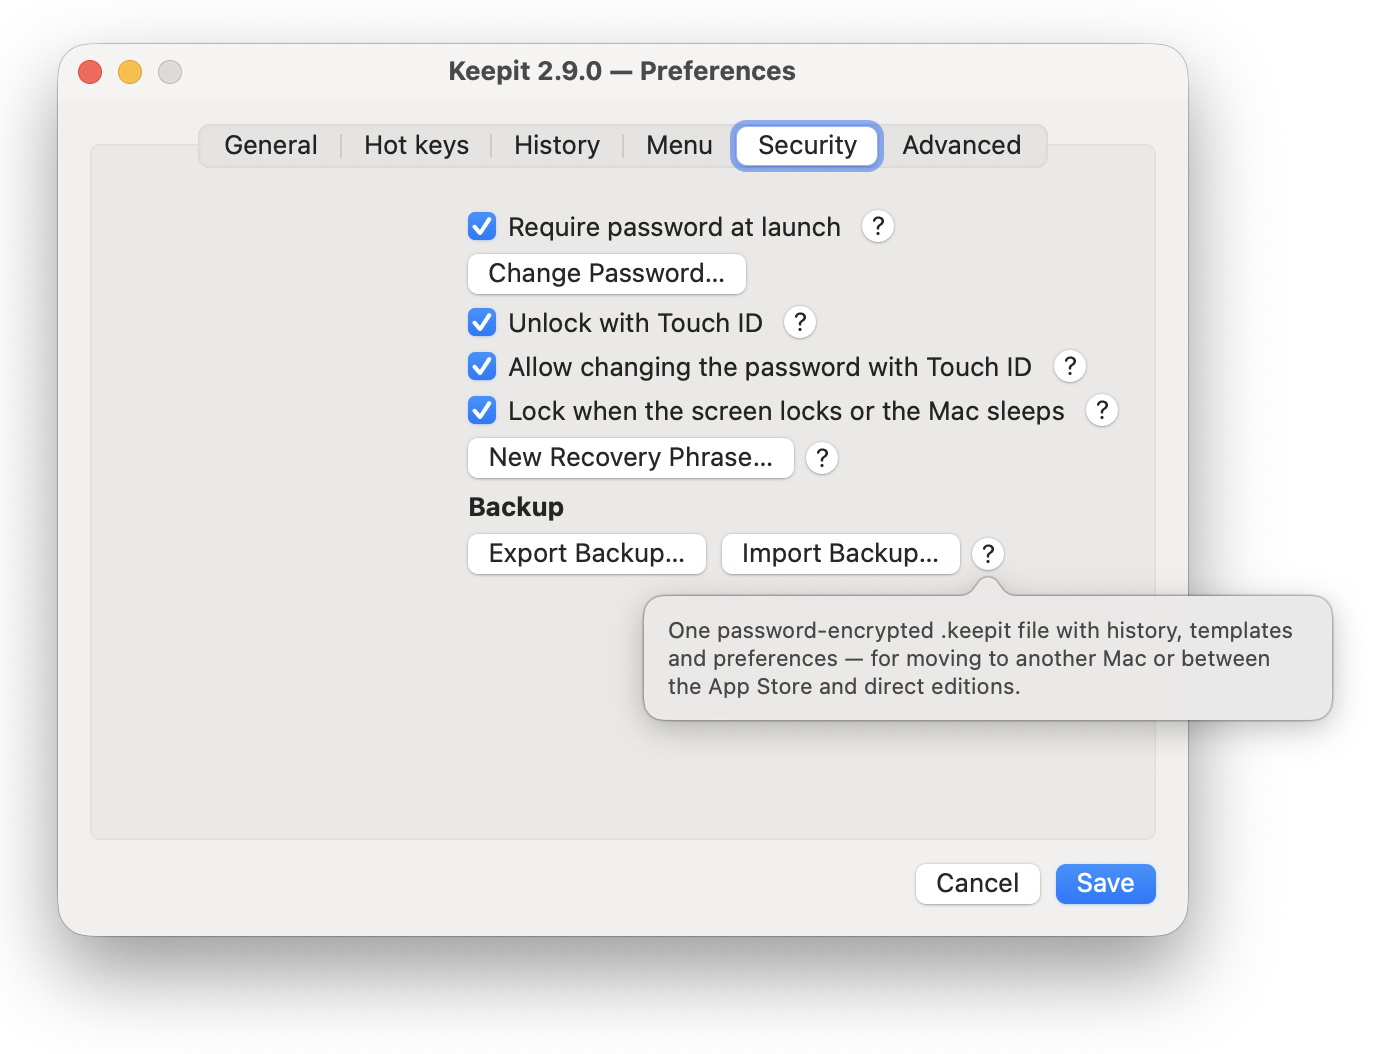
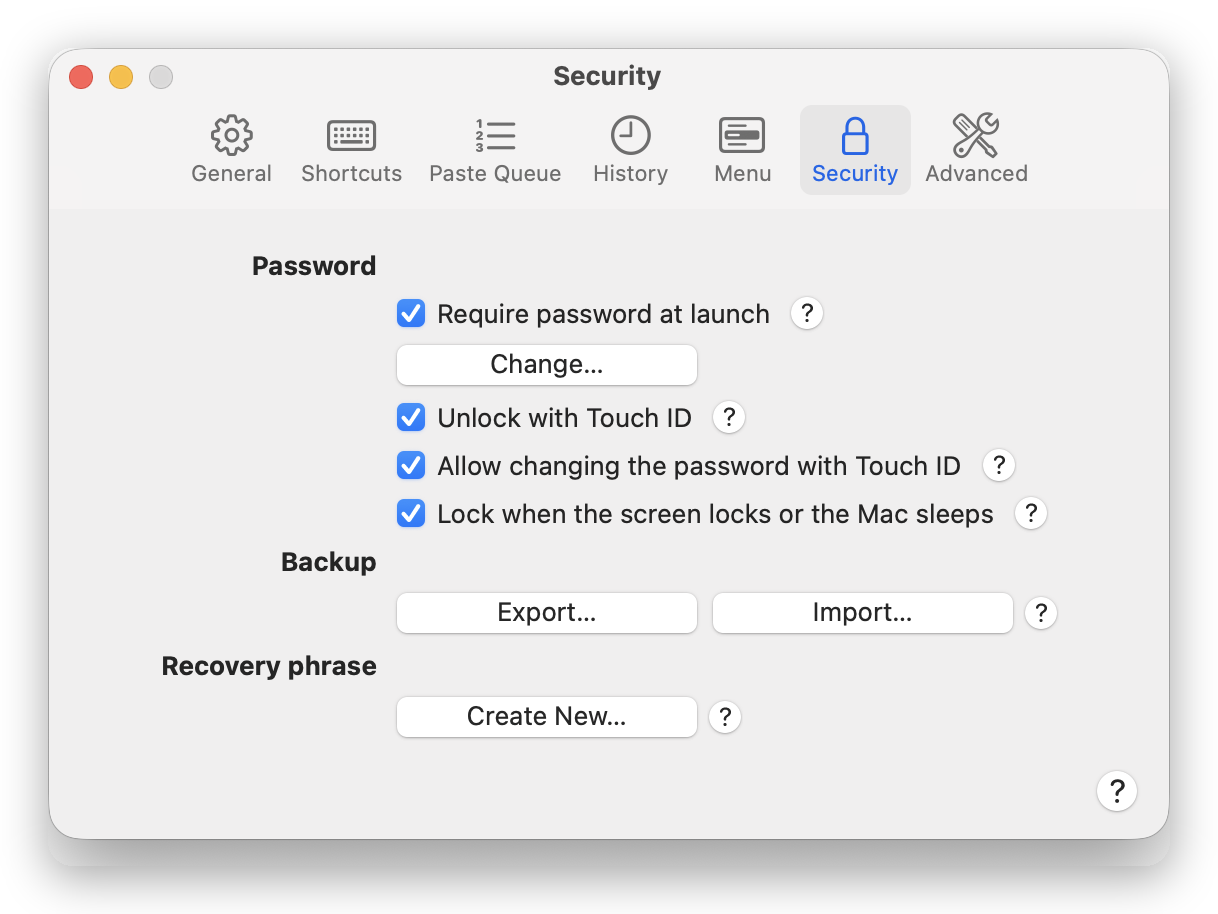
Guide: screenshots for 2.11 Settings panes and the paste queue
Claude-Session: https://claude.ai/code/session_018CvCqxSRbLMzpaocuVb3aG

diff --git a/docs/site/guide.html b/docs/site/guide.html
@@ -162,6 +162,9 @@ cells into a form, lines from a page into a document. The paste queue does that 
    counter: <code>📎 ● 0</code>.</li>
 <li>Copy as usual with ⌘C, as many times as you like. The counter goes up with every copy: 1, 2, 3…
    Everything is recorded in the history too.</li>
+</ol>
+<figure class="shot" style="max-width:280px"><a href="img/guide/queue-menubar.png" class="zoom" title="Open full size"><img src="img/guide/queue-menubar.png" alt="The menu bar while the queue is on: red dot and counter" width="280" height="48" loading="lazy"></a><figcaption>The menu bar while the queue is on: red dot and counter</figcaption></figure>
+<ol>
 <li>Switch to where the text goes and press <strong>⌥V</strong> for each item. The first thing you copied is
    pasted first, the counter goes down. ⌘V still pastes the clipboard as usual, so you can mix both.</li>
 <li>The queue switches itself off after the last item is pasted, or after two minutes without a copy
@@ -170,6 +173,8 @@ cells into a form, lines from a page into a document. The paste queue does that 
 <p><strong>⌥⇧N</strong> pastes everything still in the queue in one go, items joined with a line break, a tab, a
 space or nothing — pick on the <em>Paste Queue</em> pane of Settings, where the idle time lives too. While the queue is on, the history menu marks its
 items: <code>▶</code> next to paste, <code>○</code> still queued, <code>✓</code> already pasted.</p>
+<figure class="shot" style="max-width:370px"><a href="img/guide/queue-menu.png" class="zoom" title="Open full size"><img src="img/guide/queue-menu.png" alt="The history menu with the queue on: ○ queued, ▶ next, ✓ pasted; the menu row shows how many are left" width="370" height="575" loading="lazy"></a><figcaption>The history menu with the queue on: ○ queued, ▶ next, ✓ pasted; the menu row shows how many are left</figcaption></figure>
+<figure class="shot" style="max-width:609px"><a href="img/guide/prefs-queue.png" class="zoom" title="Open full size"><img src="img/guide/prefs-queue.png" alt="Settings → Paste Queue" width="609" height="427" loading="lazy"></a><figcaption>Settings → Paste Queue</figcaption></figure>
 <h3 id="the-extended-menu">The extended menu</h3>
 <p>Hold <strong>⇧</strong> while the history menu is open and every item gets a <code>▸</code> submenu with all actions for
 that item: Paste, Paste as plain text, Copy only (clipboard, no paste), the <em>Paste as</em>
@@ -297,6 +302,7 @@ the empty line.</p>
 the Mac: pick a pane in the toolbar, and every change applies the moment you make it — there is no
 Save button; close the window with ⌘W or Esc. Every option with a <strong>?</strong> next to it has a popover
 that explains it.</p>
+<figure class="shot" style="max-width:609px"><a href="img/guide/prefs-general.png" class="zoom" title="Open full size"><img src="img/guide/prefs-general.png" alt="Settings → General" width="609" height="377" loading="lazy"></a><figcaption>Settings → General</figcaption></figure>
 <div class="tbl"><table>
 <thead>
 <tr>
@@ -335,12 +341,12 @@ that explains it.</p>
 </tr>
 </tbody>
 </table></div>
-<figure class="shot" style="max-width:689px"><a href="img/guide/prefs-hotkeys.png" class="zoom" title="Open full size"><img src="img/guide/prefs-hotkeys.png" alt="Settings → Shortcuts" width="689" height="468" loading="lazy"></a><figcaption>Settings → Shortcuts</figcaption></figure>
+<figure class="shot" style="max-width:609px"><a href="img/guide/prefs-history.png" class="zoom" title="Open full size"><img src="img/guide/prefs-history.png" alt="Settings → History: limits and the ignored-apps list" width="609" height="490" loading="lazy"></a><figcaption>Settings → History: limits and the ignored-apps list</figcaption></figure>
+<figure class="shot" style="max-width:609px"><a href="img/guide/prefs-hotkeys.png" class="zoom" title="Open full size"><img src="img/guide/prefs-hotkeys.png" alt="Settings → Shortcuts" width="609" height="679" loading="lazy"></a><figcaption>Settings → Shortcuts</figcaption></figure>
 <p>On the <strong>Shortcuts</strong> pane click a field and press a combination; ⌫ switches a key off; a
 combination already used by another command is refused and the reason is shown under the fields; <em>Reset to
 Defaults</em> brings back the ⌥-letter set (⌥M history, ⌥T templates, ⌥E Viewer, ⌥S Settings, ⌥C Clear History, ⌥P pause, ⌥L lock, ⌥Q quit), ⌥⇧V and ⌃⌥. <em>Paste item by number</em> and <em>Actions on the latest item</em>
-take only modifiers — the digit or letter is added by Keepit. Two of your own keys on the same
-combination are refused on Save; if macOS or another app already owns one, Keepit says so when it
+take only modifiers — the digit or letter is added by Keepit. If macOS or another app already owns one, Keepit says so when it
 starts. <em>Viewer</em> ⌥E, <em>Settings</em> ⌥S, <em>Clear History</em> ⌥C, <em>Pause recording</em> ⌥P, <em>Lock Keepit</em> ⌥L and <em>Quit Keepit</em> ⌥Q work from any app and are shown next to their commands in the menu. On a US layout ⌥+letter normally types a special character (⌥S = ß, ⌥C = ç …); if you need one of those, move the key.</p>
 <hr />
 <h2 id="part-6-security">Part 6 — Security</h2>
@@ -352,7 +358,7 @@ when the screen locks or the Mac sleeps.</p>
 <figure class="shot" style="max-width:372px"><a href="img/guide/set-password.png" class="zoom" title="Open full size"><img src="img/guide/set-password.png" alt="Setting the password: layout indicator and strength meter" width="372" height="380" loading="lazy"></a><figcaption>Setting the password: layout indicator and strength meter</figcaption></figure>
 <p>The password dialogs show the current keyboard layout and warn about Caps Lock, so a rejected
 password is rarely a mystery.</p>
-<figure class="shot" style="max-width:700px"><a href="img/guide/prefs-security.png" class="zoom" title="Open full size"><img src="img/guide/prefs-security.png" alt="Settings → Security" width="700" height="527" loading="lazy"></a><figcaption>Settings → Security</figcaption></figure>
+<figure class="shot" style="max-width:609px"><a href="img/guide/prefs-security.png" class="zoom" title="Open full size"><img src="img/guide/prefs-security.png" alt="Settings → Security" width="609" height="457" loading="lazy"></a><figcaption>Settings → Security</figcaption></figure>
 <h3 id="touch-id">Touch ID</h3>
 <p>With <em>Unlock with Touch ID</em> the key is also stored in the Secure Enclave behind your fingerprint:
 Keepit asks for a touch instead of the password. The password keeps working as a fallback — <em>Use
@@ -425,6 +431,7 @@ entries (including the Touch ID key), the login item and the Accessibility entry
 password or Touch ID, a typed <code>DELETE</code> and a confirmation — export a backup first if you might want
 the data back. With Homebrew, run <code>brew uninstall --cask --force keepit</code> afterwards so Homebrew
 forgets the cask.</p>
+<figure class="shot" style="max-width:609px"><a href="img/guide/prefs-advanced.png" class="zoom" title="Open full size"><img src="img/guide/prefs-advanced.png" alt="Settings → Advanced" width="609" height="361" loading="lazy"></a><figcaption>Settings → Advanced</figcaption></figure>
 <hr />
 <h2 id="reference">Reference</h2>
 <h3 id="troubleshooting">Troubleshooting</h3>

diff --git a/docs/GUIDE.md b/docs/GUIDE.md
@@ -128,6 +128,9 @@ cells into a form, lines from a page into a document. The paste queue does that 
    counter: `📎 ● 0`.
 2. Copy as usual with ⌘C, as many times as you like. The counter goes up with every copy: 1, 2, 3…
    Everything is recorded in the history too.
+
+   ![The menu bar while the queue is on: red dot and counter](site/img/guide/queue-menubar.png)
+
 3. Switch to where the text goes and press **⌥V** for each item. The first thing you copied is
    pasted first, the counter goes down. ⌘V still pastes the clipboard as usual, so you can mix both.
 4. The queue switches itself off after the last item is pasted, or after two minutes without a copy
@@ -136,6 +139,10 @@ cells into a form, lines from a page into a document. The paste queue does that 
 **⌥⇧N** pastes everything still in the queue in one go, items joined with a line break, a tab, a
 space or nothing — pick on the *Paste Queue* pane of Settings, where the idle time lives too. While the queue is on, the history menu marks its
 items: `▶` next to paste, `○` still queued, `✓` already pasted.
+
+![The history menu with the queue on: ○ queued, ▶ next, ✓ pasted; the menu row shows how many are left](site/img/guide/queue-menu.png)
+
+![Settings → Paste Queue](site/img/guide/prefs-queue.png)
 
 ### The extended menu
 
@@ -259,6 +266,8 @@ the Mac: pick a pane in the toolbar, and every change applies the moment you mak
 Save button; close the window with ⌘W or Esc. Every option with a **?** next to it has a popover
 that explains it.
 
+![Settings → General](site/img/guide/prefs-general.png)
+
 | Pane | What is there |
 |-----|---------------|
 | **General** | Launch at login · save history on quit, restore on start · paste after choosing (off = only copy) · paste delay — raise it for apps that are slow to come to the front · open the menu at the text cursor |
@@ -269,13 +278,14 @@ that explains it.
 | **Security** | Password, Touch ID, locking, recovery phrase, Backup (Export / Import) — [Part 6](#part-6--security) |
 | **Advanced** | Clipboard poll interval · Data: *Open Folder* · Reset and uninstall: *Reset…* (back to a fresh install, example templates return) · *Uninstall…* (reset, then remove the app, Launch at login, keychain entry and permissions) |
 
+![Settings → History: limits and the ignored-apps list](site/img/guide/prefs-history.png)
+
 ![Settings → Shortcuts](site/img/guide/prefs-hotkeys.png)
 
 On the **Shortcuts** pane click a field and press a combination; ⌫ switches a key off; a
 combination already used by another command is refused and the reason is shown under the fields; *Reset to
 Defaults* brings back the ⌥-letter set (⌥M history, ⌥T templates, ⌥E Viewer, ⌥S Settings, ⌥C Clear History, ⌥P pause, ⌥L lock, ⌥Q quit), ⌥⇧V and ⌃⌥. *Paste item by number* and *Actions on the latest item*
-take only modifiers — the digit or letter is added by Keepit. Two of your own keys on the same
-combination are refused on Save; if macOS or another app already owns one, Keepit says so when it
+take only modifiers — the digit or letter is added by Keepit. If macOS or another app already owns one, Keepit says so when it
 starts. *Viewer* ⌥E, *Settings* ⌥S, *Clear History* ⌥C, *Pause recording* ⌥P, *Lock Keepit* ⌥L and *Quit Keepit* ⌥Q work from any app and are shown next to their commands in the menu. On a US layout ⌥+letter normally types a special character (⌥S = ß, ⌥C = ç …); if you need one of those, move the key.
 
 ---
@@ -357,6 +367,8 @@ entries (including the Touch ID key), the login item and the Accessibility entry
 password or Touch ID, a typed `DELETE` and a confirmation — export a backup first if you might want
 the data back. With Homebrew, run `brew uninstall --cask --force keepit` afterwards so Homebrew
 forgets the cask.
+
+![Settings → Advanced](site/img/guide/prefs-advanced.png)
 
 ---
 
